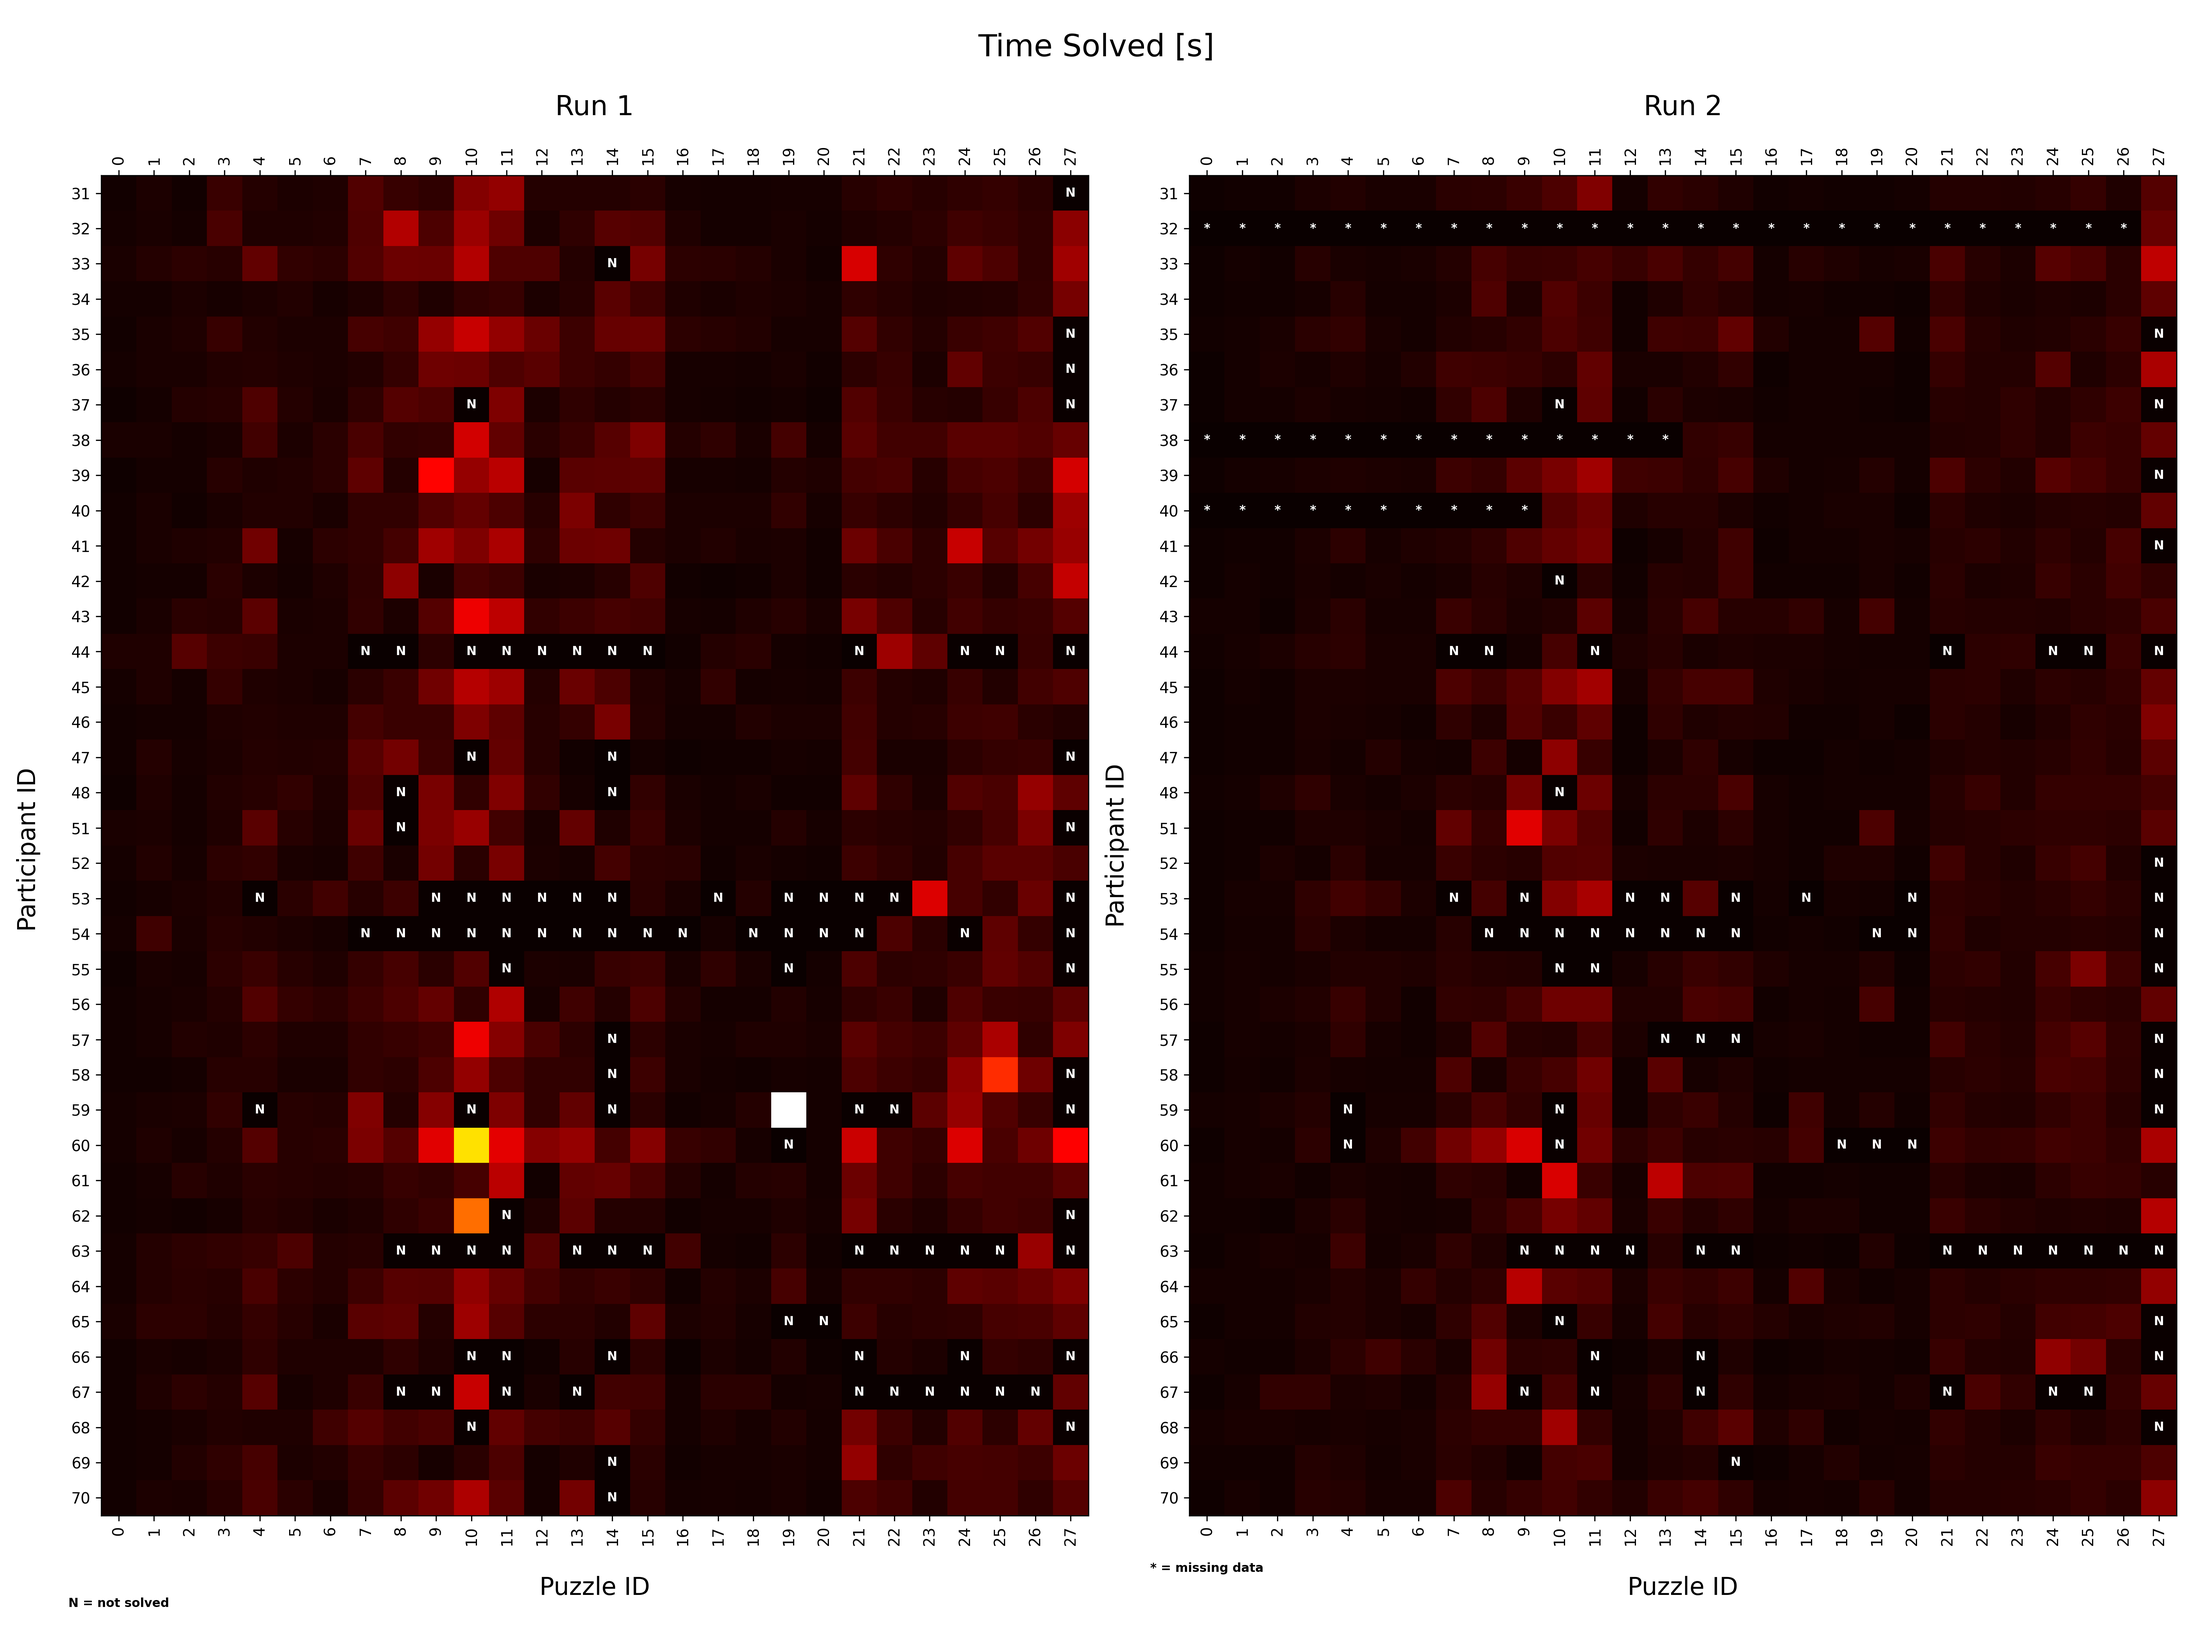
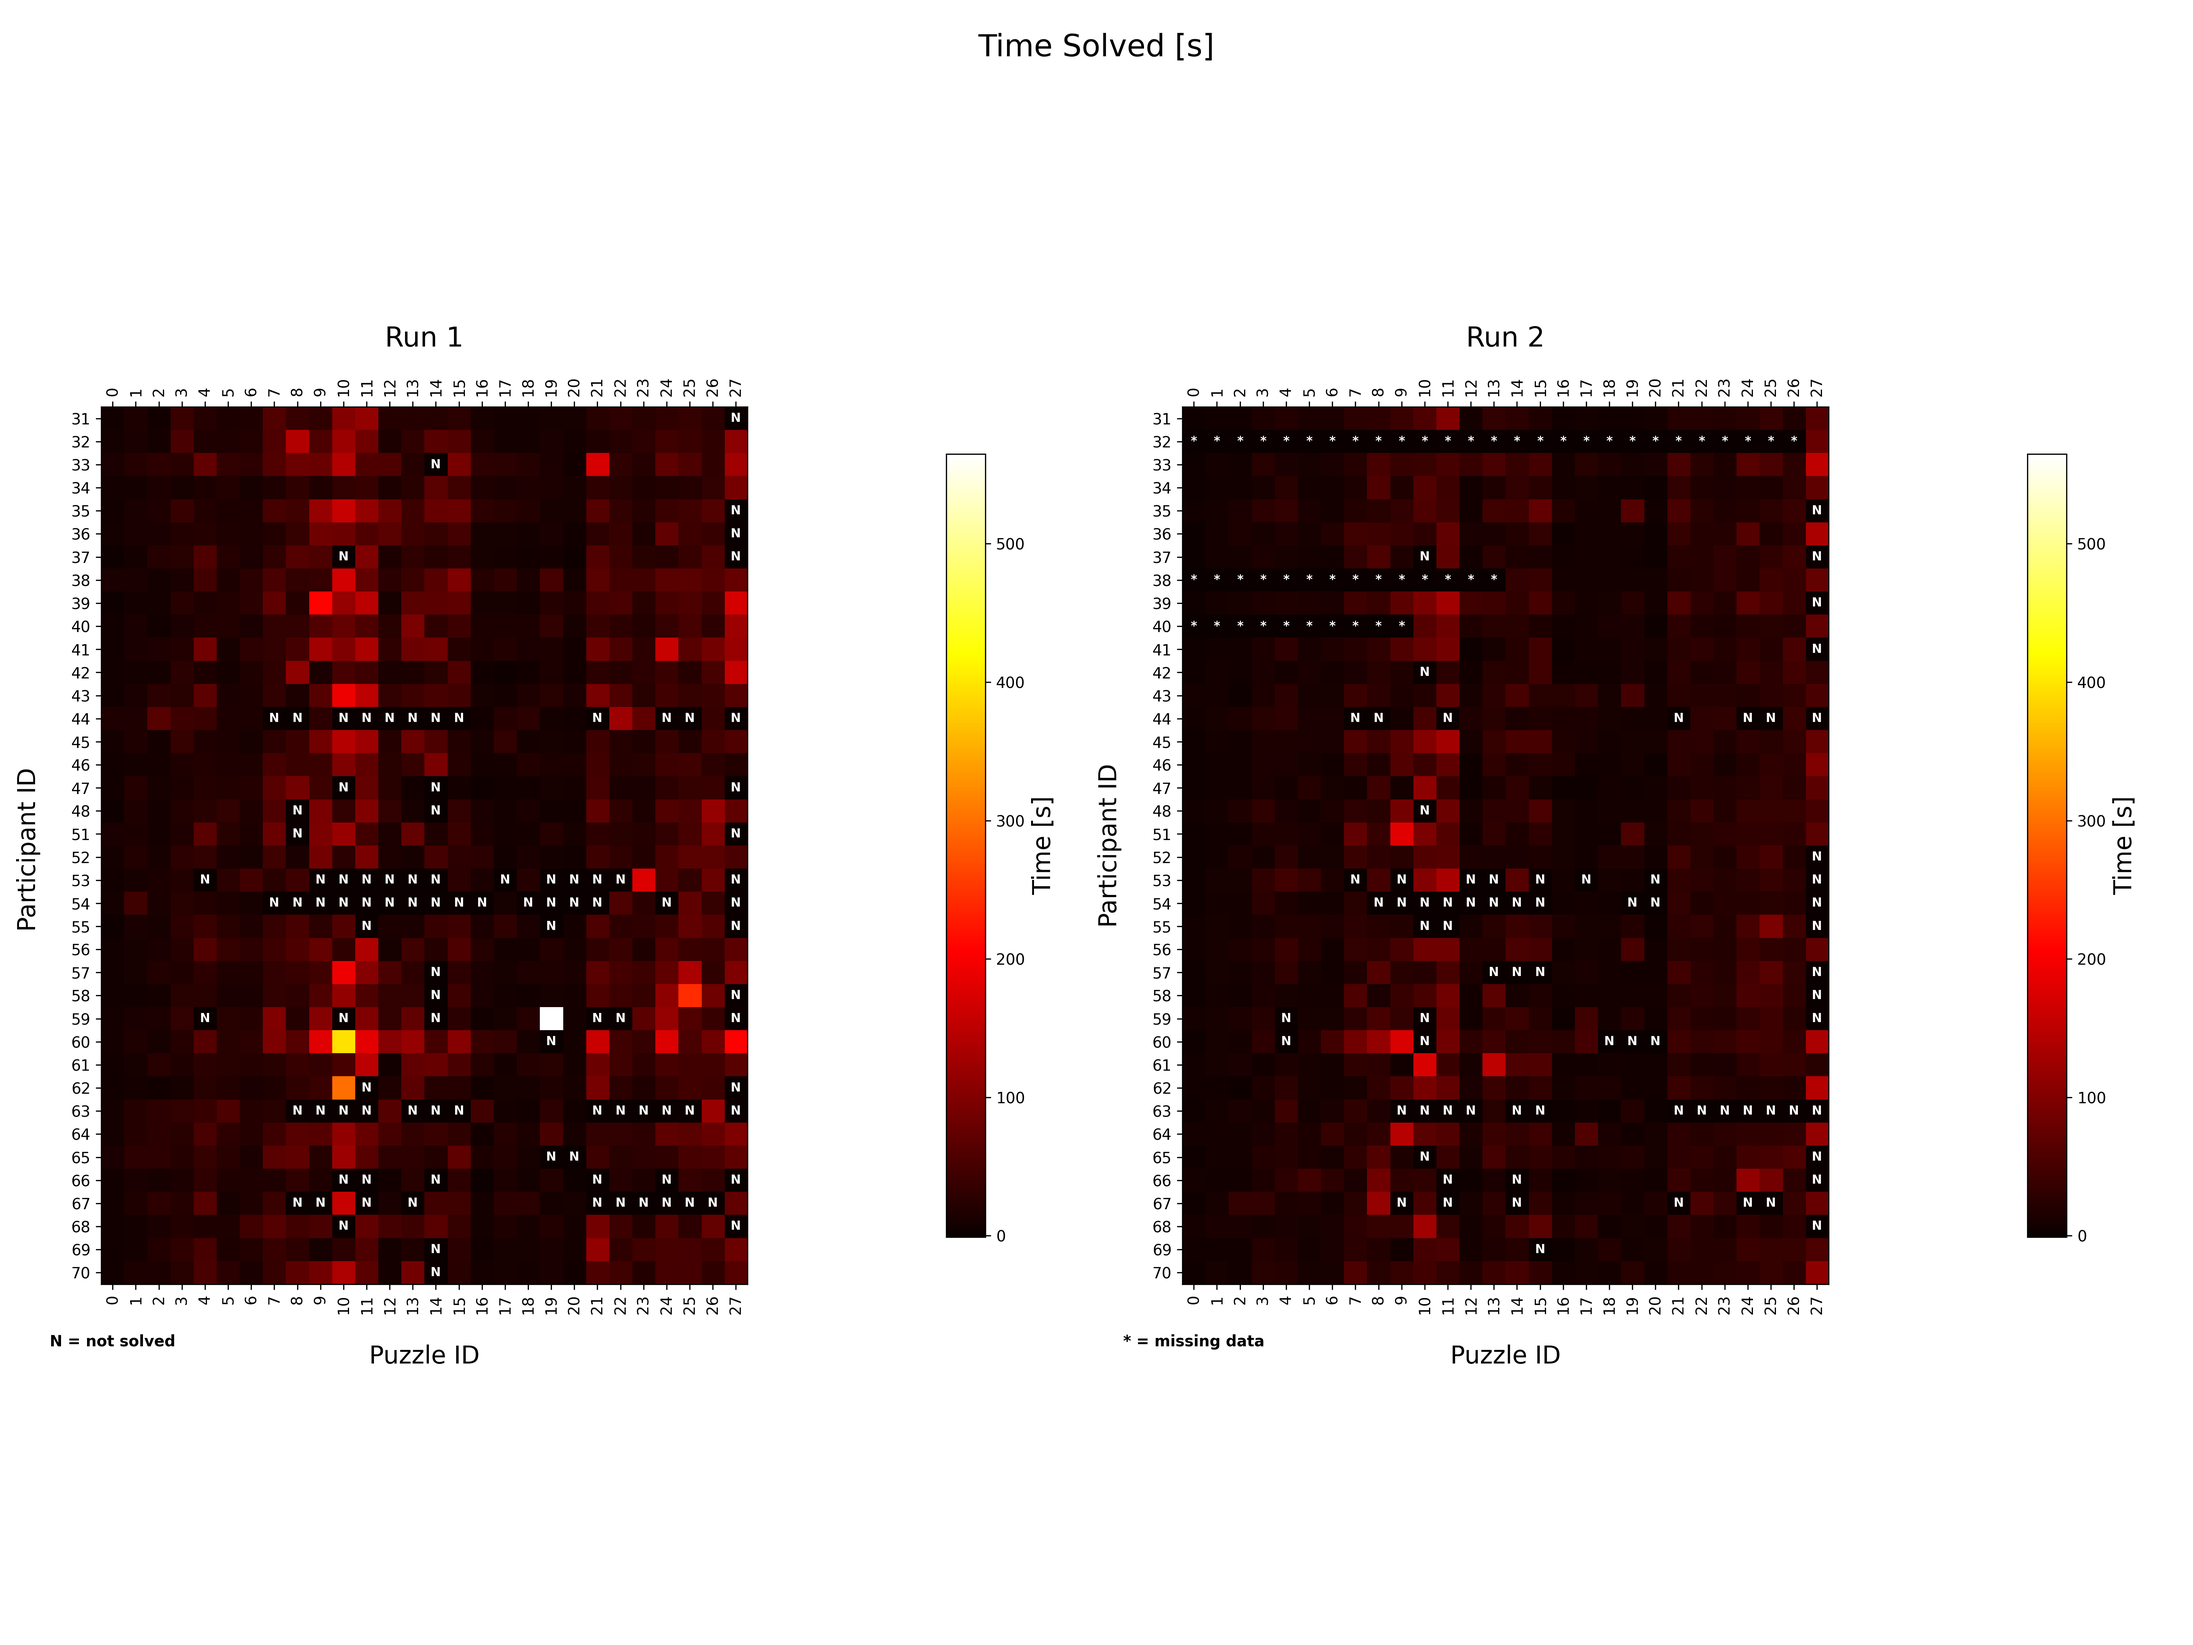
correction, need to modify the plot

diff --git a/SRC/solvedTimeDist.py b/SRC/solvedTimeDist.py
@@ -90,15 +90,14 @@ for i in range(len(unique_participants)):
         if sol_matrix1[i, j] == -1:
             plt.text(j, i,"N", ha="center", va="center", color="w", fontsize=8, fontweight="bold")
 
-plt.text(0, 2+len(unique_participants), "N = not solved", ha="center", va="center", color="black", fontsize=8, fontweight="bold")
 plt.xticks(np.arange(len(unique_puzzles)), unique_puzzles, rotation=90)
 plt.tick_params(axis='x', which='both', bottom=True, top=True, labelbottom=True, labeltop=True)
 plt.yticks(np.arange(len(unique_participants)), unique_participants)
 plt.xlabel("Puzzle ID" , labelpad=20)
 plt.ylabel("Participant ID ", labelpad=20) 
 plt.title("Run 1" , pad=20)
-
-
+plt.text(0, 2+len(unique_participants), "N = not solved", ha="center", va="center", color="black", fontsize=10, fontweight="bold")
+plt.colorbar( orientation='vertical', pad=0.2, shrink=0.5, label="Time [s]")
 
 plt.subplot(1, 2, 2)
 plt.imshow(sol_matrix2, cmap="hot", vmax=vmax)
@@ -117,7 +116,9 @@ plt.ylabel("Participant ID", labelpad=20 )
 plt.title("Run 2", pad=20)
 #"N" = not solved
 #"*" = missing data
-plt.text(0, 1+len(unique_participants), "* = missing data", ha="center", va="center", color="black", fontsize=8, fontweight="bold")
-# plt.colorbar()
+plt.text(0, 2+len(unique_participants), "* = missing data", ha="center", va="center", color="black", fontsize=10, fontweight="bold")
+#share colorbar
+plt.colorbar( orientation='vertical', pad=0.2, shrink=0.5, label="Time [s]")
+
 plt.savefig("./Data/timeDistribution.png", dpi=300)
                 
